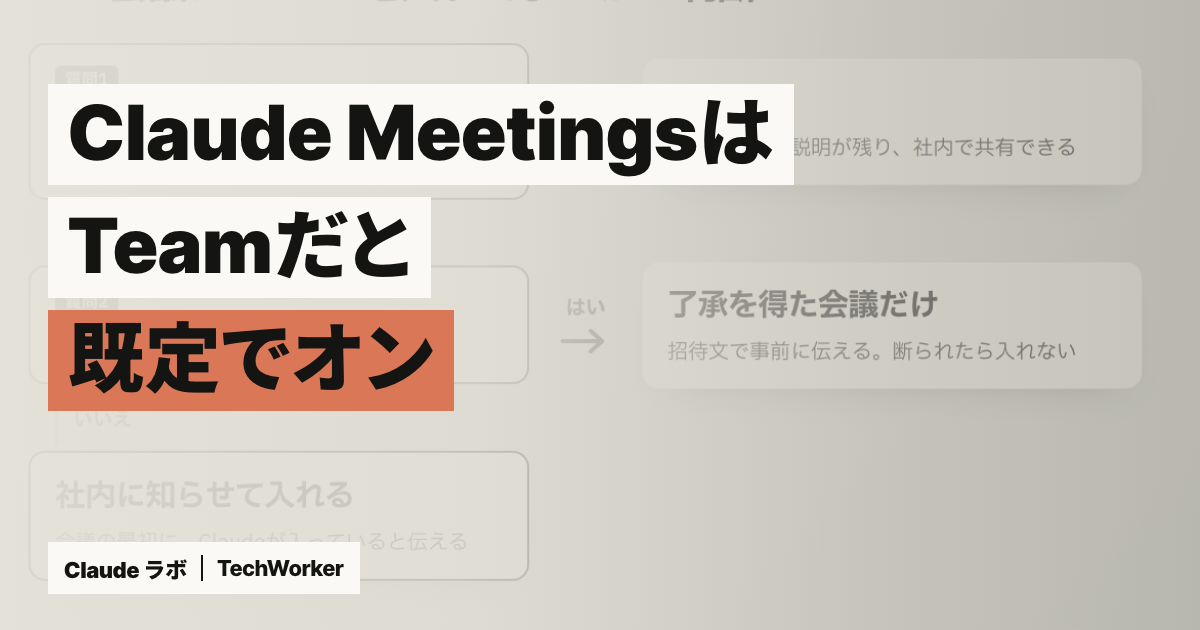
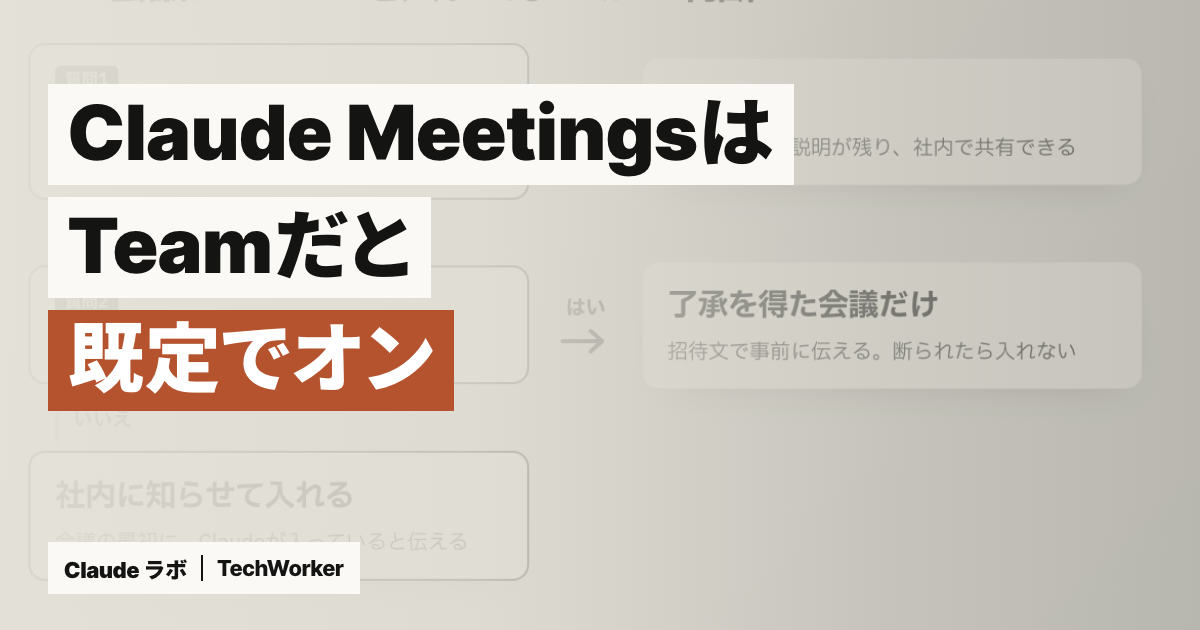
Claude ラボ：珊瑚の地に黒い字をやめ、押す物と表紙の要の帯を濃い珊瑚の地に白い字にする
古野さん「オレンジ背景に黒字がみにくいので改善してほしい」（2026-11-23）。
- 一覧の押す物（上の帯の研修・記事を読む・試算の受け取り・右下の小窓）を #B5532F の地に白い字（比4.95）、押した時 #9C4527
- 表紙9本の要の1行を #B5532F の帯に白い字で描き直し、一覧の背景の壁の絵も作り直した

Changed region(s): [[0.0308, 0.4825, 0.4008, 0.6635]]

diff --git a/media/claude/index.html b/media/claude/index.html
@@ -43,7 +43,7 @@ fbq('init','1264057945446029');fbq('track','PageView');
 
 <style>
 /* ===== Claude ラボ（2026-11-23）：1画面目は本体HPの壁を Claude の色（地 #FAF9F5・差し色 #D97757）で敷く。記事は主役1本＋新着2本＋表紙の3列を1つの格子に。動きは壁の流れる3列だけ ===== */
-body.cl{--bg:#FAF9F5;--bg2:#F0EEE6;--bg3:#E8E6DC;--ln:#D1CFC5;--tx:#141413;--tx2:#30302E;--tx3:#5E5D59;--ac:#D97757;--ac-d:#C6613F;
+body.cl{--bg:#FAF9F5;--bg2:#F0EEE6;--bg3:#E8E6DC;--ln:#D1CFC5;--tx:#141413;--tx2:#30302E;--tx3:#5E5D59;--ac:#D97757;--ac-d:#C6613F;--ac-b:#B5532F;--ac-bh:#9C4527;
   --electric:#141413;--electric-dark:#30302E;--ink:#141413;--slate:#5E5D59;--white:#FFFFFF;--line:#E8E6DC;--line-2:#D1CFC5;
   --edge:calc(max(0px,(100vw - var(--wrap)) / 2) + var(--pad));background:var(--bg);color:var(--tx);font-size:16px;letter-spacing:.02em;}
 .cl h1,.cl h2,.cl h3,.cl .c-t,.cl .c-btn{font-feature-settings:"palt";letter-spacing:.02em;word-break:auto-phrase;}
@@ -51,14 +51,14 @@ body.cl{--bg:#FAF9F5;--bg2:#F0EEE6;--bg3:#E8E6DC;--ln:#D1CFC5;--tx:#141413;--tx2
 /* 上の帯と足：地の色に合わせる */
 .cl .subnav{background:var(--bg);border-bottom:1px solid var(--bg3);}
 .cl .subnav nav a:hover{color:var(--ac-d);}
-.cl .subnav nav .subnav__cta{background:var(--ac);color:var(--tx);}
-.cl .subnav nav .subnav__cta:hover{background:var(--ac-d);color:var(--tx);filter:none;}
+.cl .subnav nav .subnav__cta{background:var(--ac-b);color:#fff;}
+.cl .subnav nav .subnav__cta:hover{background:var(--ac-bh);color:#fff;filter:none;}
 .cl .ft{background:var(--bg2);}
 /* 釦 */
 .c-btn{display:inline-flex;align-items:center;gap:18px;min-height:54px;padding:0 26px;border-radius:6px;font:700 15px/1 var(--f-body);text-decoration:none;transition:background .2s,color .2s;}
 .c-btn .arw{width:16px;height:16px;fill:none;stroke:currentColor;stroke-width:1.8;}
-.c-btn--main{background:var(--ac);color:var(--tx);}
-.c-btn--main:hover{background:var(--ac-d);}
+.c-btn--main{background:var(--ac-b);color:#fff;}
+.c-btn--main:hover{background:var(--ac-bh);}
 .c-btn--sub{color:var(--tx);box-shadow:inset 0 0 0 1.5px var(--tx);}
 .c-btn--sub:hover{background:var(--bg2);}
 .c-go{display:inline-flex;align-items:center;gap:10px;font-weight:700;font-size:15px;color:var(--tx);text-decoration:underline;text-decoration-color:var(--ac);text-decoration-thickness:2px;text-underline-offset:7px;}
@@ -137,8 +137,8 @@ body.cl{--bg:#FAF9F5;--bg2:#F0EEE6;--bg3:#E8E6DC;--ln:#D1CFC5;--tx:#141413;--tx2
 .c-docs .tw-lead{background:transparent;border:0;box-shadow:none;border-radius:0;padding:0;}
 
 /* 資料の欄（lead.js）と右下の小窓（cv-dock.js）の釦も、黒い地に白い字にしない。光る筋と脈打つ動きは止める */
-.cl .tw-lead button,.cl .tw-lead .tl-go,.cl .twd-b,.cl .twd-pill{background:var(--ac);color:var(--tx);box-shadow:none;}
-.cl .tw-lead button:hover,.cl .tw-lead .tl-go:hover,.cl .twd-b:hover,.cl .twd-pill:hover{background:var(--ac-d);color:var(--tx);}
+.cl .tw-lead button,.cl .tw-lead .tl-go,.cl .twd-b,.cl .twd-pill{background:var(--ac-b);color:#fff;box-shadow:none;}
+.cl .tw-lead button:hover,.cl .tw-lead .tl-go:hover,.cl .twd-b:hover,.cl .twd-pill:hover{background:var(--ac-bh);color:#fff;}
 .cl .twd-b{animation:none;}
 .cl .twd-b::after{display:none;}
 
